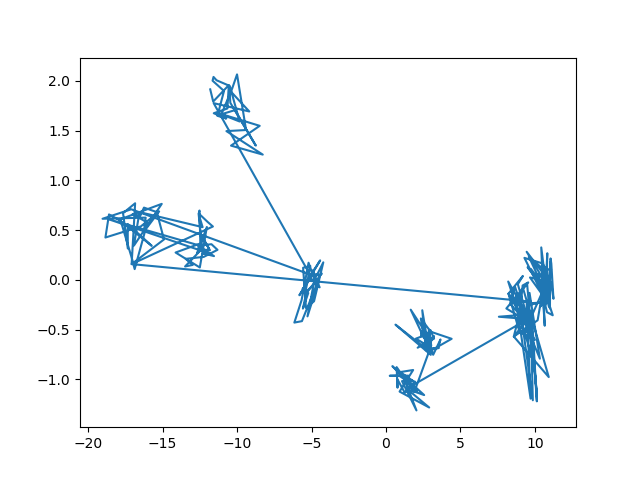
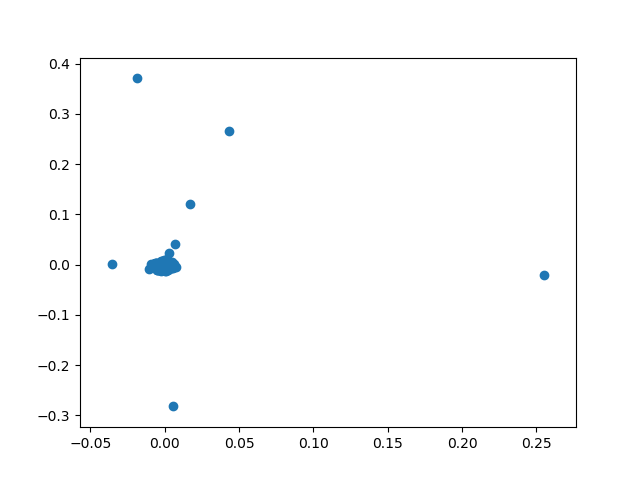
3

diff --git a/hw4.py b/hw4.py
@@ -73,7 +73,7 @@ def pca(data_set, n_components):
     evecs = []
     evecs_sorted = []
     evals, evecs = np.linalg.eig(covar)
-    evecs_sorted = evecs[evals.argsort(), :]
+    evecs_sorted = evecs[:, evals.argsort()]
     evs = evecs_sorted[:, range(n_components)]
     return evs
     
@@ -109,7 +109,7 @@ def main():
     data = read_data('pizza.txt')
     comp = pca(data, 2)
     result = dim_reduction(data, comp)
-    plt.plot(result[:,0], result[:,1])
+    plt.scatter(result[:,0], result[:,1])
     plt.savefig('plot.png')
 
 if __name__ == '__main__':
